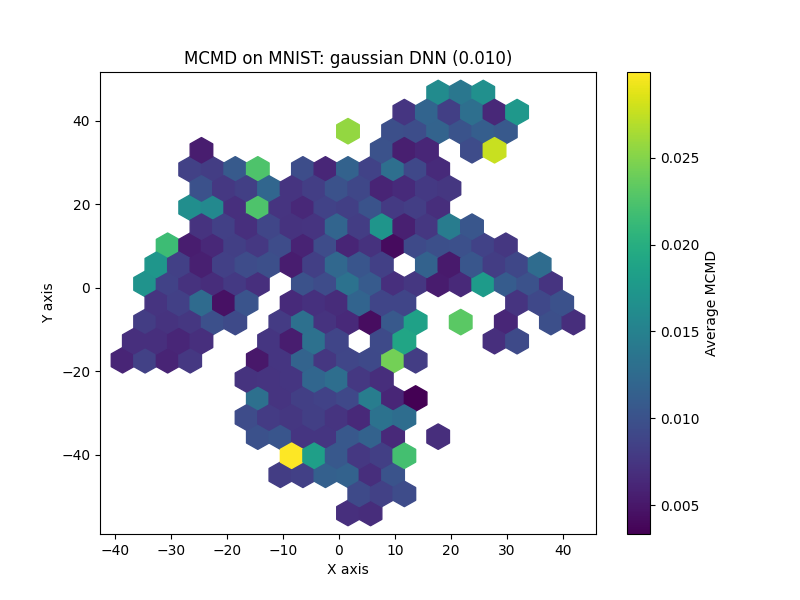
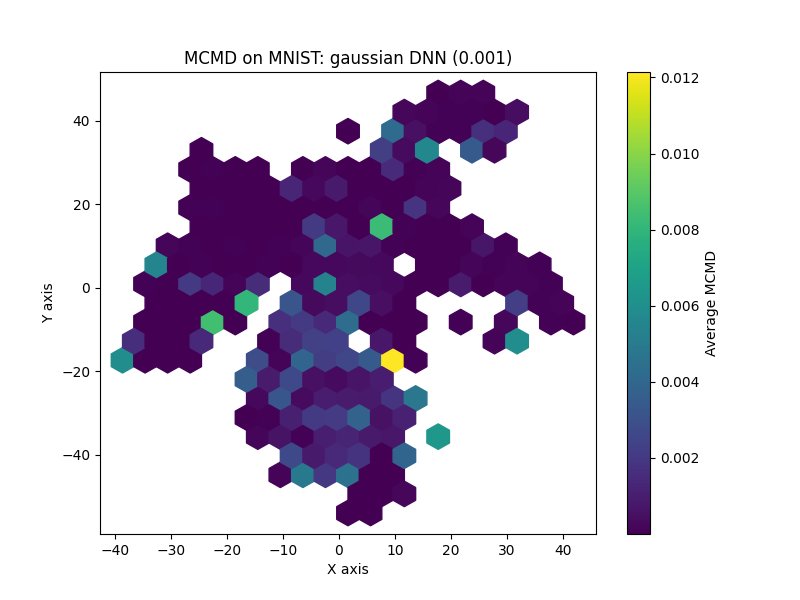
bug: fix tranpose bug in sampler. add tsne scatter plot

diff --git a/probcal/experiments/mnist_calibration.py b/probcal/experiments/mnist_calibration.py
@@ -11,7 +11,7 @@ from probcal.utils.configs import TrainingConfig
 
 from probcal.samplers import SAMPLERS
 from probcal.evaluation.metrics import compute_mcmd
-from probcal.evaluation.plotting import plot_hex_bin_mcmd
+from probcal.evaluation.plotting import plot_hex_bin_mcmd, get_scatter_plot_by_cls
 
 from probcal.enums import DatasetType, ImageDatasetName, HeadType
 
@@ -67,6 +67,14 @@ def main(model_type: str, num_samples: int):
     print("Computing TSNE")
     X_reduced = TSNE(n_components=2, random_state=1990).fit_transform(X)
 
+    get_scatter_plot_by_cls(
+        x=X_reduced[:, 0],
+        y=X_reduced[:, 1],
+        c=Y.flatten(),
+        fpath="../figures/artifacts/mnist_tsne.png",
+        title="MNIST TSNE"
+    )
+
     print('Computing MCMD')
     mcmd_vals = compute_mcmd(
                 grid=X_reduced,
@@ -77,8 +85,12 @@ def main(model_type: str, num_samples: int):
                 x_kernel=x_kernel,
                 y_kernel=y_kernel,
             )
-
-    print(mcmd_vals)
+    print("Y Prime:")
+    print(y_prime.flatten().round(1))
+    print("Y True:")
+    print(Y.flatten())
+    print("MCMD Values:")
+    print(mcmd_vals.round(3))
     mean_mcmd = np.mean(mcmd_vals)
     print(mean_mcmd)
     total_mcmd = np.sum(mcmd_vals)

diff --git a/probcal/evaluation/plotting.py b/probcal/evaluation/plotting.py
@@ -132,9 +132,13 @@ def plot_hex_bin_mcmd(
     else:
         plt.show()
 
-if __name__ == "__main__":
-    np.random.seed(0)
-    x = np.random.rand(1000)
-    y = np.random.rand(1000)
-    c = np.random.rand(1000)
-    plot_hex_bin_mcmd(x, y, c)
+def get_scatter_plot_by_cls(x: np.ndarray, y: np.ndarray, c: np.ndarray, title:str, fpath: Optional[str] = None):
+
+    plt.figure(figsize=(8, 6))
+    scatter = plt.scatter(x, y, c=c, cmap='tab10', alpha=0.6)
+    plt.colorbar(scatter, ticks=range(10))
+    plt.title(title)
+    if fpath is not None:
+        plt.savefig(fpath)
+    else:
+        plt.show()

diff --git a/probcal/samplers/base_sampler.py b/probcal/samplers/base_sampler.py
@@ -27,9 +27,9 @@ class BaseSampler(ABC):
         Args:
             m: (int) number of samples to draw
 
-        Returns: (np.ndarray) samples of shape (n, m) where n is the number of model predictions (y_hat) and m is the
+        Returns: (np.ndarray) samples of shape (m, n) where n is the number of model predictions (y_hat) and m is the
         number of somples for each model output
 
         """
-        draws = self.dist.rvs(size=(m, self.n)).transpose()
+        draws = self.dist.rvs(size=(m, self.n))
         return draws
